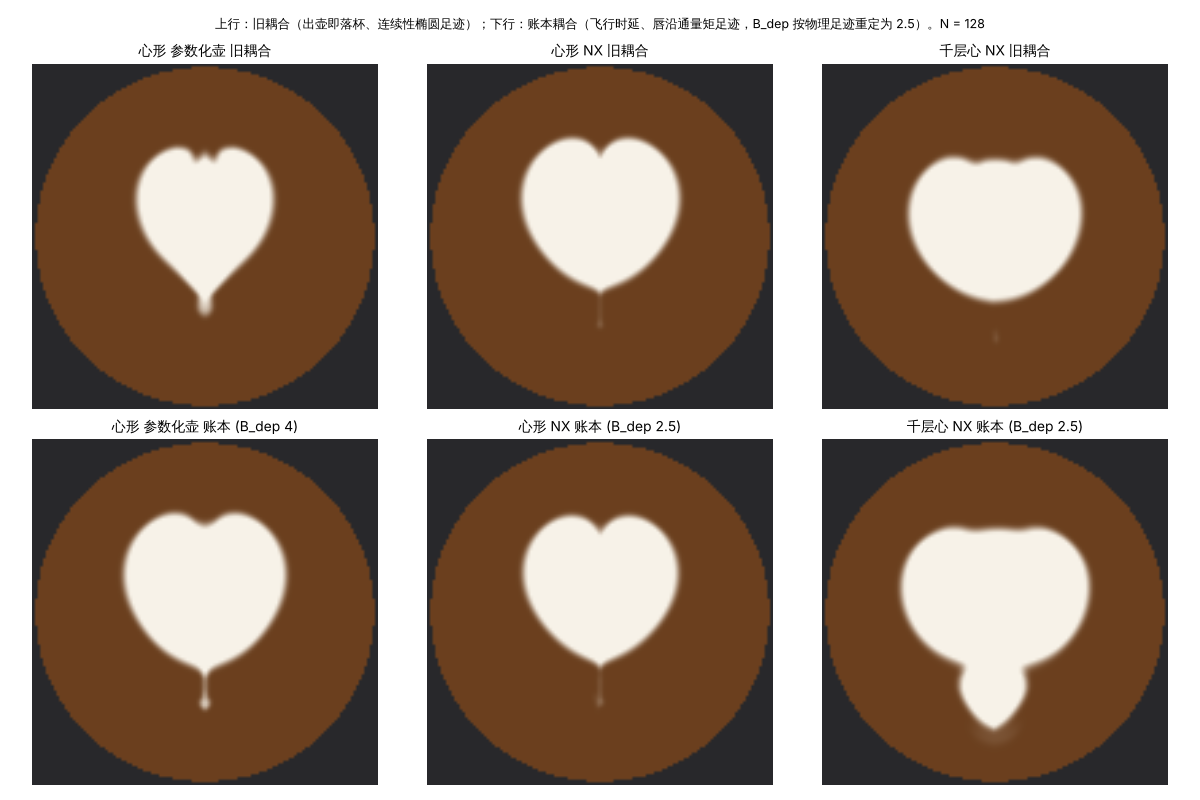
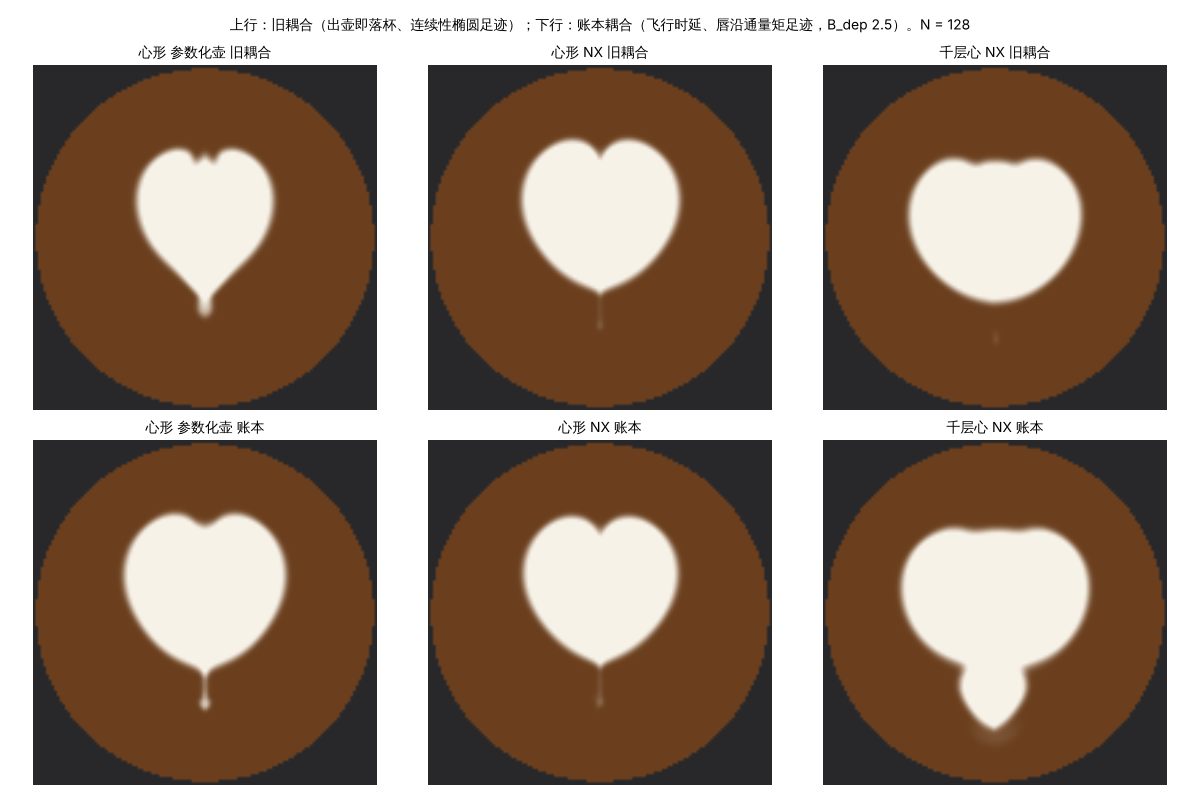
Parcels carry arrival windows so Q_hit is a rate under any sampling step; rising-edge delay test; figure updated
Claude-Session: https://claude.ai/code/session_019DebF9UcsYAMq4SUBADtor

diff --git a/web/pitcher_playground.html b/web/pitcher_playground.html
@@ -273,9 +273,10 @@ function stepPitcher(pose, dt){
   const tau=st.Qfeed>=st.Q?law.tau:law.tau_stop; const Qout=st.Vlip/tau; const release=Math.min(st.Vlip, Qout*dt); st.Vlip-=release; st.Q=release/dt; st.t+=dt;
   let J=null;
   if(release>0){ J=jet(R,st.Q,W.h_bar,W.origin,law.hk,W.width,W.tangent);
-    st.parcels.push({ta:st.t+J.t_hit, vol:release, x:J.x_hit[0], y:J.x_hit[1], U:J.U_perp, uhx:J.v0[0], uhy:J.v0[1], d:J.d_hit, r1:J.r1, r2:J.r2, phi:J.phi, coh:J.coherent}); st.Vjet+=release; }
-  let hit=null, vol=0; const keep=[]; const acc={x:0,y:0,U:0,uhx:0,uhy:0,d:0,r1:0,r2:0}; let phi=0, coh=true;
-  for(const pk of st.parcels){ if(pk.ta<=st.t){ vol+=pk.vol; for(const k in acc) acc[k]+=pk[k]*pk.vol; phi=pk.phi; coh=coh&&pk.coh; } else keep.push(pk); }
+    st.parcels.push({ta0:st.t-dt+J.t_hit, ta1:st.t+J.t_hit, vol:release, x:J.x_hit[0], y:J.x_hit[1], U:J.U_perp, uhx:J.v0[0], uhy:J.v0[1], d:J.d_hit, r1:J.r1, r2:J.r2, phi:J.phi, coh:J.coherent}); st.Vjet+=release; }
+  // arrivals during [t-dt, t]: overlap of each parcel's arrival window with the step (Q_hit stays a rate for any step size)
+  let hit=null, vol=0; const keep=[]; const acc={x:0,y:0,U:0,uhx:0,uhy:0,d:0,r1:0,r2:0}; let phi=0, coh=true; const t0=st.t-dt, t1=st.t;
+  for(const pk of st.parcels){ const ov=Math.max(0, Math.min(pk.ta1,t1)-Math.max(pk.ta0,t0)); if(ov>0){ const v=pk.vol*ov/Math.max(pk.ta1-pk.ta0,1e-12); vol+=v; for(const k in acc) acc[k]+=pk[k]*v; phi=pk.phi; coh=coh&&pk.coh; } if(pk.ta1>t1) keep.push(pk); }
   st.parcels=keep;
   if(vol>0){ st.Vjet-=vol; st.Vcup+=vol; for(const k in acc) acc[k]/=vol; hit={Q:vol/dt, x_hit:[acc.x,acc.y], U_perp:acc.U, v0:[acc.uhx,acc.uhy,0], d_hit:acc.d, r1:acc.r1, r2:acc.r2, phi, coherent:coh}; }
   st.Qhit=hit?hit.Q:0;

diff --git a/latte_imex/pitcher.py b/latte_imex/pitcher.py
@@ -471,24 +471,34 @@ class Pitcher:
         J = None
         if release > 0:
             J = self.jet(pose, st.Q, W["h_bar"], W["origin"], z_surface, W["width"], W["tangent"])
-            st.parcels.append(dict(t_arrive=st.t + J["t_hit"], vol=release, x_hit=J["x_hit"].copy(), U_perp=J["U_perp"],
-                                   u_h=J["u_h"].copy(), d_hit=J["d_hit"], speed=J["speed"], r1=J["r1"], r2=J["r2"],
-                                   phi=J["phi"], coherent=J["coherent"]))
+            # the volume released during [t-dt, t] arrives during [t-dt+t_hit, t+t_hit]: a parcel with an arrival window,
+            # so that Q_hit is a proper rate whatever the sampling step (run.py shortens frames during fast scans)
+            st.parcels.append(dict(ta0=st.t - dt + J["t_hit"], ta1=st.t + J["t_hit"], vol=release, x_hit=J["x_hit"].copy(),
+                                   U_perp=J["U_perp"], u_h=J["u_h"].copy(), d_hit=J["d_hit"], speed=J["speed"],
+                                   r1=J["r1"], r2=J["r2"], phi=J["phi"], coherent=J["coherent"]))
             st.V_jet += release
-        # arrivals this frame (parcels are appended in order of release; arrival order may differ slightly)
-        arrived = [pk for pk in st.parcels if pk["t_arrive"] <= st.t]
-        st.parcels = [pk for pk in st.parcels if pk["t_arrive"] > st.t]
+        # arrivals during this step [t-dt, t]: the overlap of each parcel's arrival window with the step
+        t0, t1 = st.t - dt, st.t
+        vol = 0.0; acc = dict(x=0.0, y=0.0, U_perp=0.0, ux=0.0, uy=0.0, d_hit=0.0, speed=0.0, r1=0.0, r2=0.0)
+        phi = 0.0; coherent = True; keep = []
+        for pk in st.parcels:
+            ov = max(0.0, min(pk["ta1"], t1) - max(pk["ta0"], t0))
+            if ov > 0:
+                v = pk["vol"] * ov / max(pk["ta1"] - pk["ta0"], 1e-12)
+                vol += v
+                acc["x"] += v * pk["x_hit"][0]; acc["y"] += v * pk["x_hit"][1]; acc["U_perp"] += v * pk["U_perp"]
+                acc["ux"] += v * pk["u_h"][0]; acc["uy"] += v * pk["u_h"][1]; acc["d_hit"] += v * pk["d_hit"]
+                acc["speed"] += v * pk["speed"]; acc["r1"] += v * pk["r1"]; acc["r2"] += v * pk["r2"]
+                phi = pk["phi"]; coherent = coherent and pk["coherent"]
+            if pk["ta1"] > t1:
+                keep.append(pk)
+        st.parcels = keep
         hit = None
-        if arrived:
-            vol = sum(pk["vol"] for pk in arrived)
+        if vol > 0:
             st.V_jet -= vol; st.V_cup += vol
-            wsum = lambda key: sum(pk[key] * pk["vol"] for pk in arrived) / vol
-            hit = dict(Q=vol / dt, x_hit=np.array([wsum("x_hit") if False else sum(pk["x_hit"][0] * pk["vol"] for pk in arrived) / vol,
-                                                   sum(pk["x_hit"][1] * pk["vol"] for pk in arrived) / vol]),
-                       U_perp=wsum("U_perp"), u_h=np.array([sum(pk["u_h"][0] * pk["vol"] for pk in arrived) / vol,
-                                                            sum(pk["u_h"][1] * pk["vol"] for pk in arrived) / vol]),
-                       d_hit=wsum("d_hit"), speed=wsum("speed"), r1=wsum("r1"), r2=wsum("r2"), phi=arrived[-1]["phi"],
-                       coherent=all(pk["coherent"] for pk in arrived))
+            hit = dict(Q=vol / dt, x_hit=np.array([acc["x"], acc["y"]]) / vol, U_perp=acc["U_perp"] / vol,
+                       u_h=np.array([acc["ux"], acc["uy"]]) / vol, d_hit=acc["d_hit"] / vol, speed=acc["speed"] / vol,
+                       r1=acc["r1"] / vol, r2=acc["r2"] / vol, phi=phi, coherent=coherent)
         st.Q_hit = hit["Q"] if hit else 0.0
         return dict(t=st.t, V=st.V, Q=st.Q, Q_feed=st.Q_feed, Q_hit=st.Q_hit, V_lip=st.V_lip, V_jet=st.V_jet, V_cup=st.V_cup,
                     Q_ss=W["Q_ss"], h_max=W["h_max"], h_bar=W["h_bar"], c=c, width=W["width"],

diff --git a/latte_imex/test_pitcher.py b/latte_imex/test_pitcher.py
@@ -62,8 +62,8 @@ def main():
     tot = T["V"] + T["V_lip"] + T["V_jet"] + T["V_cup"]
     err = float(np.abs(tot - 200e-6).max())
     q1, q2 = T["Q"], T["Q_hit"]
-    lag = int(np.argmax([np.dot(q1[:len(q1) - l], q2[l:]) for l in range(0, 30)])) / 120
-    print(f"[6] ledger |V_b+V_lip+V_jet+V_cup - V0| max {err:.1e} m3; Q_hit lags Q_out by {lag*1e3:.0f} ms; V_cup {T['V_cup'][-1]*1e6:.1f} mL")
+    lag = (int(np.argmax(q2 > 1e-7)) - int(np.argmax(q1 > 1e-7))) / 120     # rising edge: first arrival after first release
+    print(f"[6] ledger |V_b+V_lip+V_jet+V_cup - V0| max {err:.1e} m3; first arrival {lag*1e3:.0f} ms after first release; V_cup {T['V_cup'][-1]*1e6:.1f} mL")
     ok &= err < 1e-12 and 0.03 < lag < 0.2
     print("PASS" if ok else "FAIL")
     return ok
